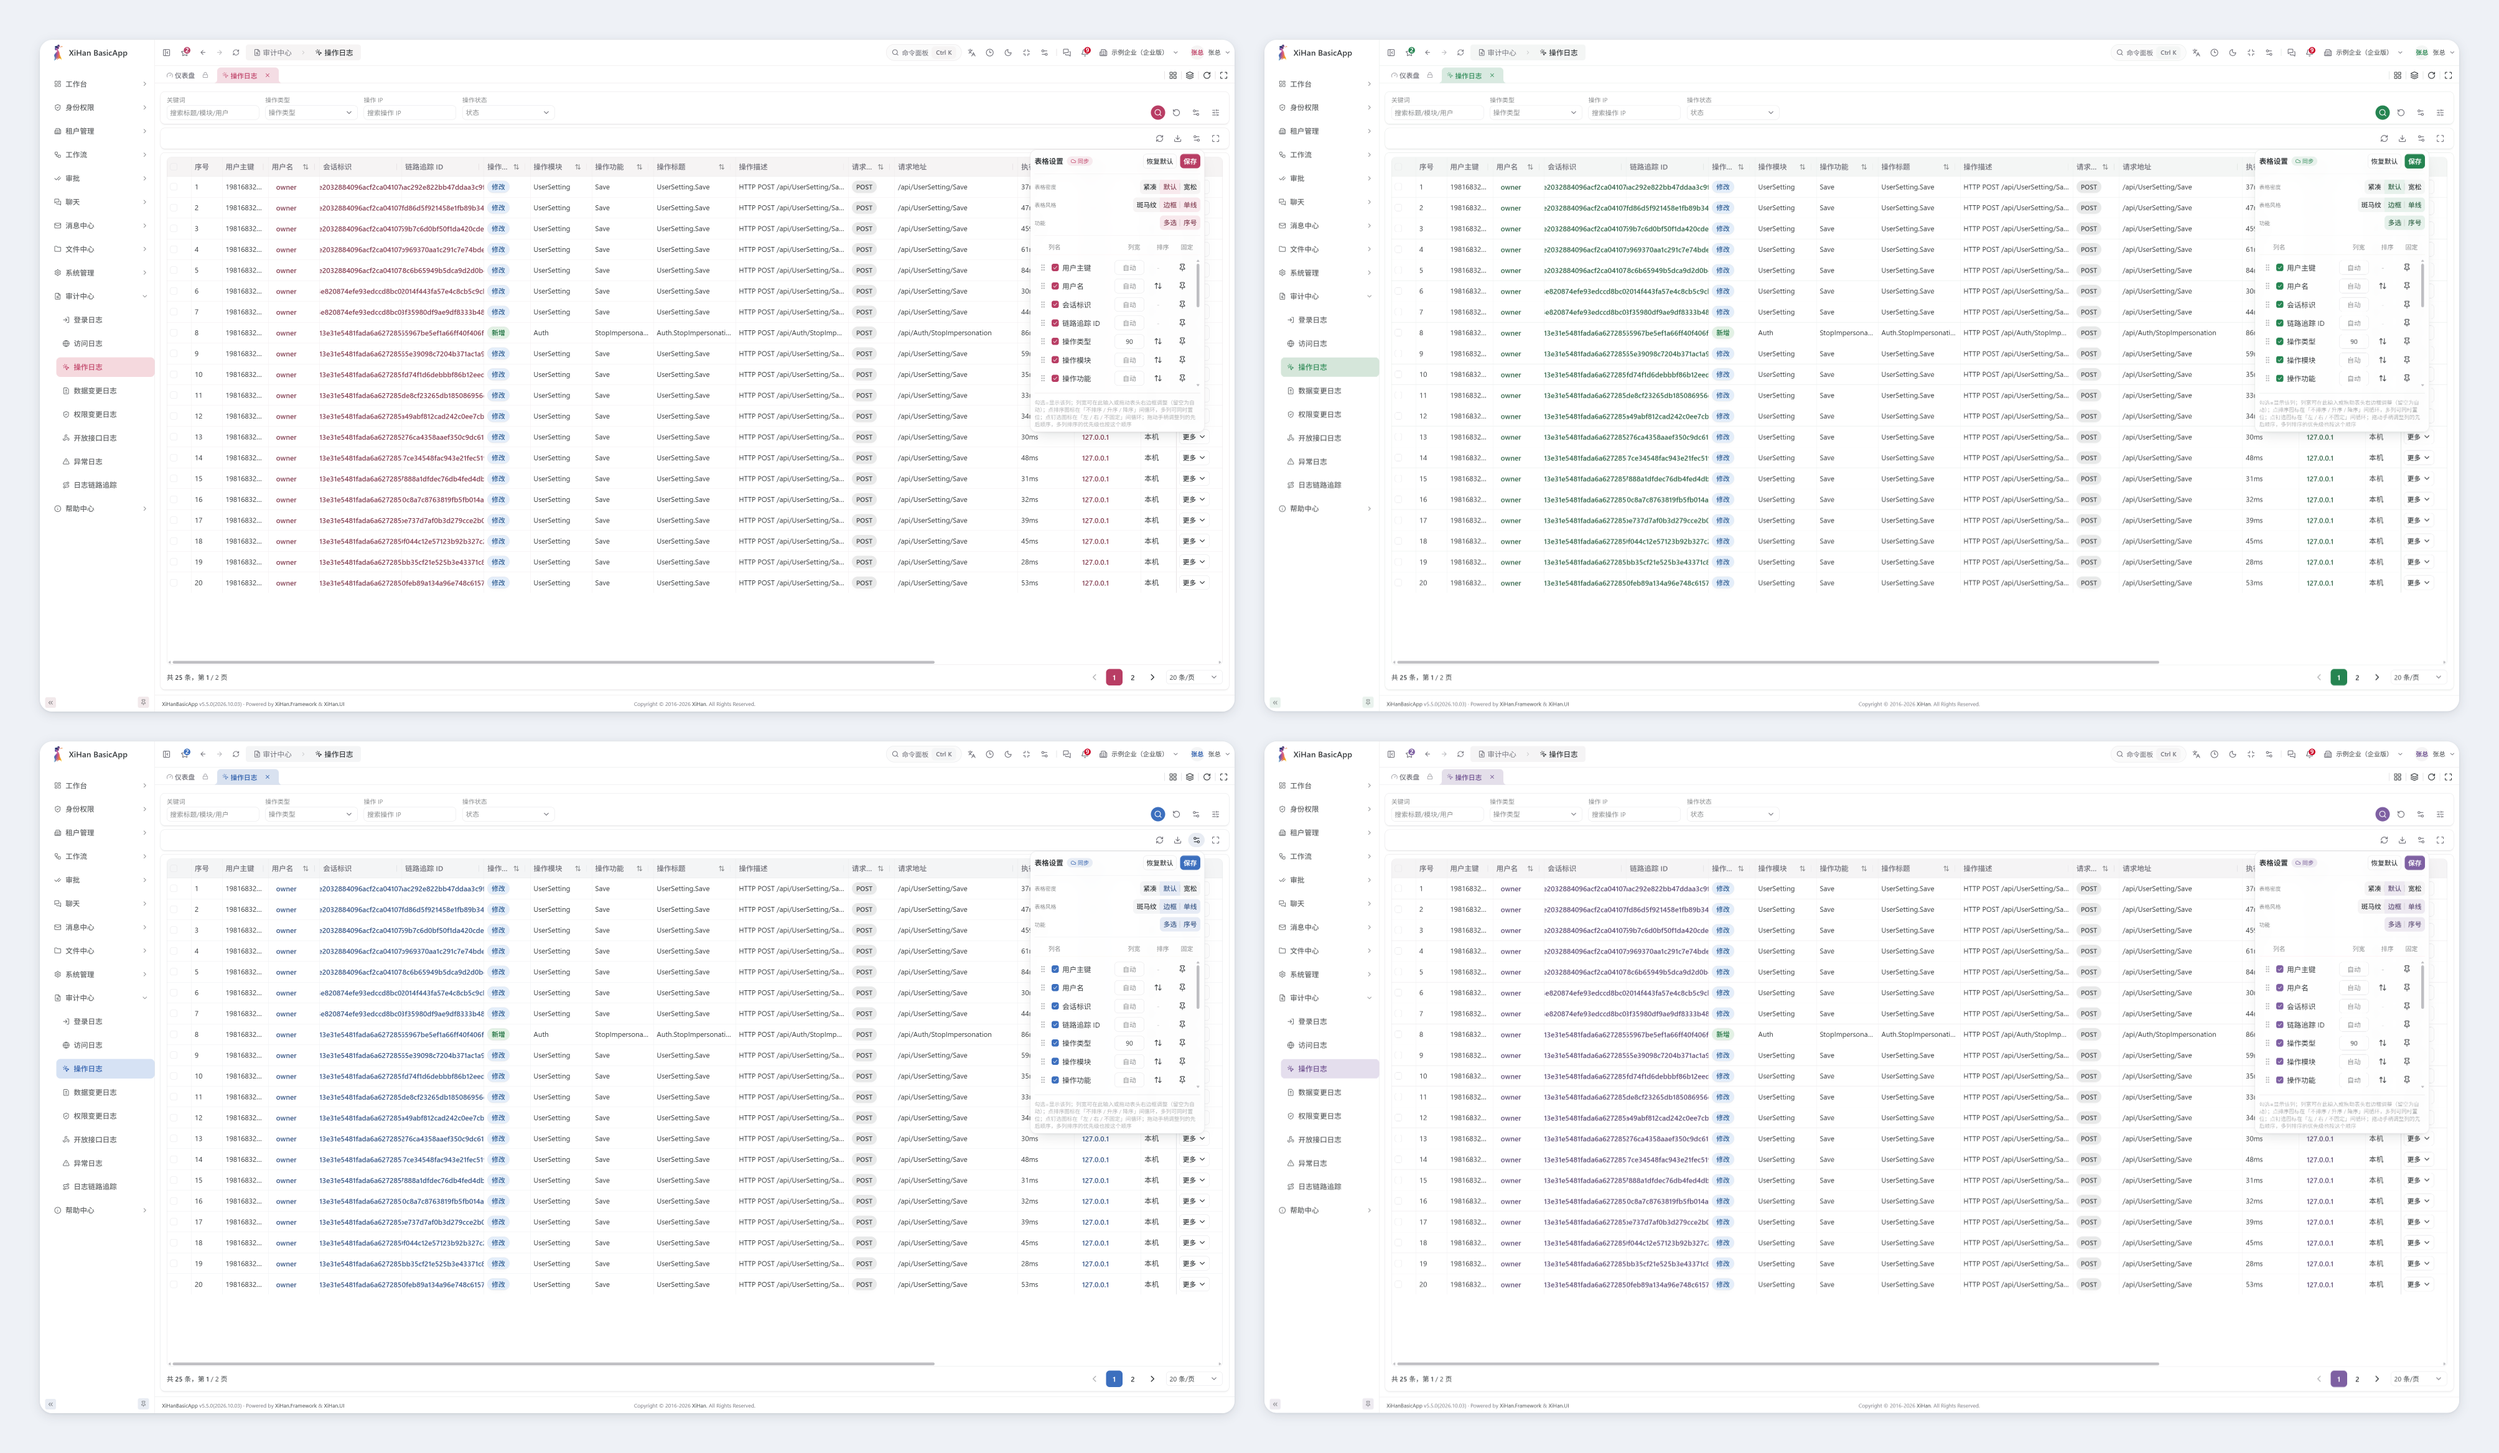
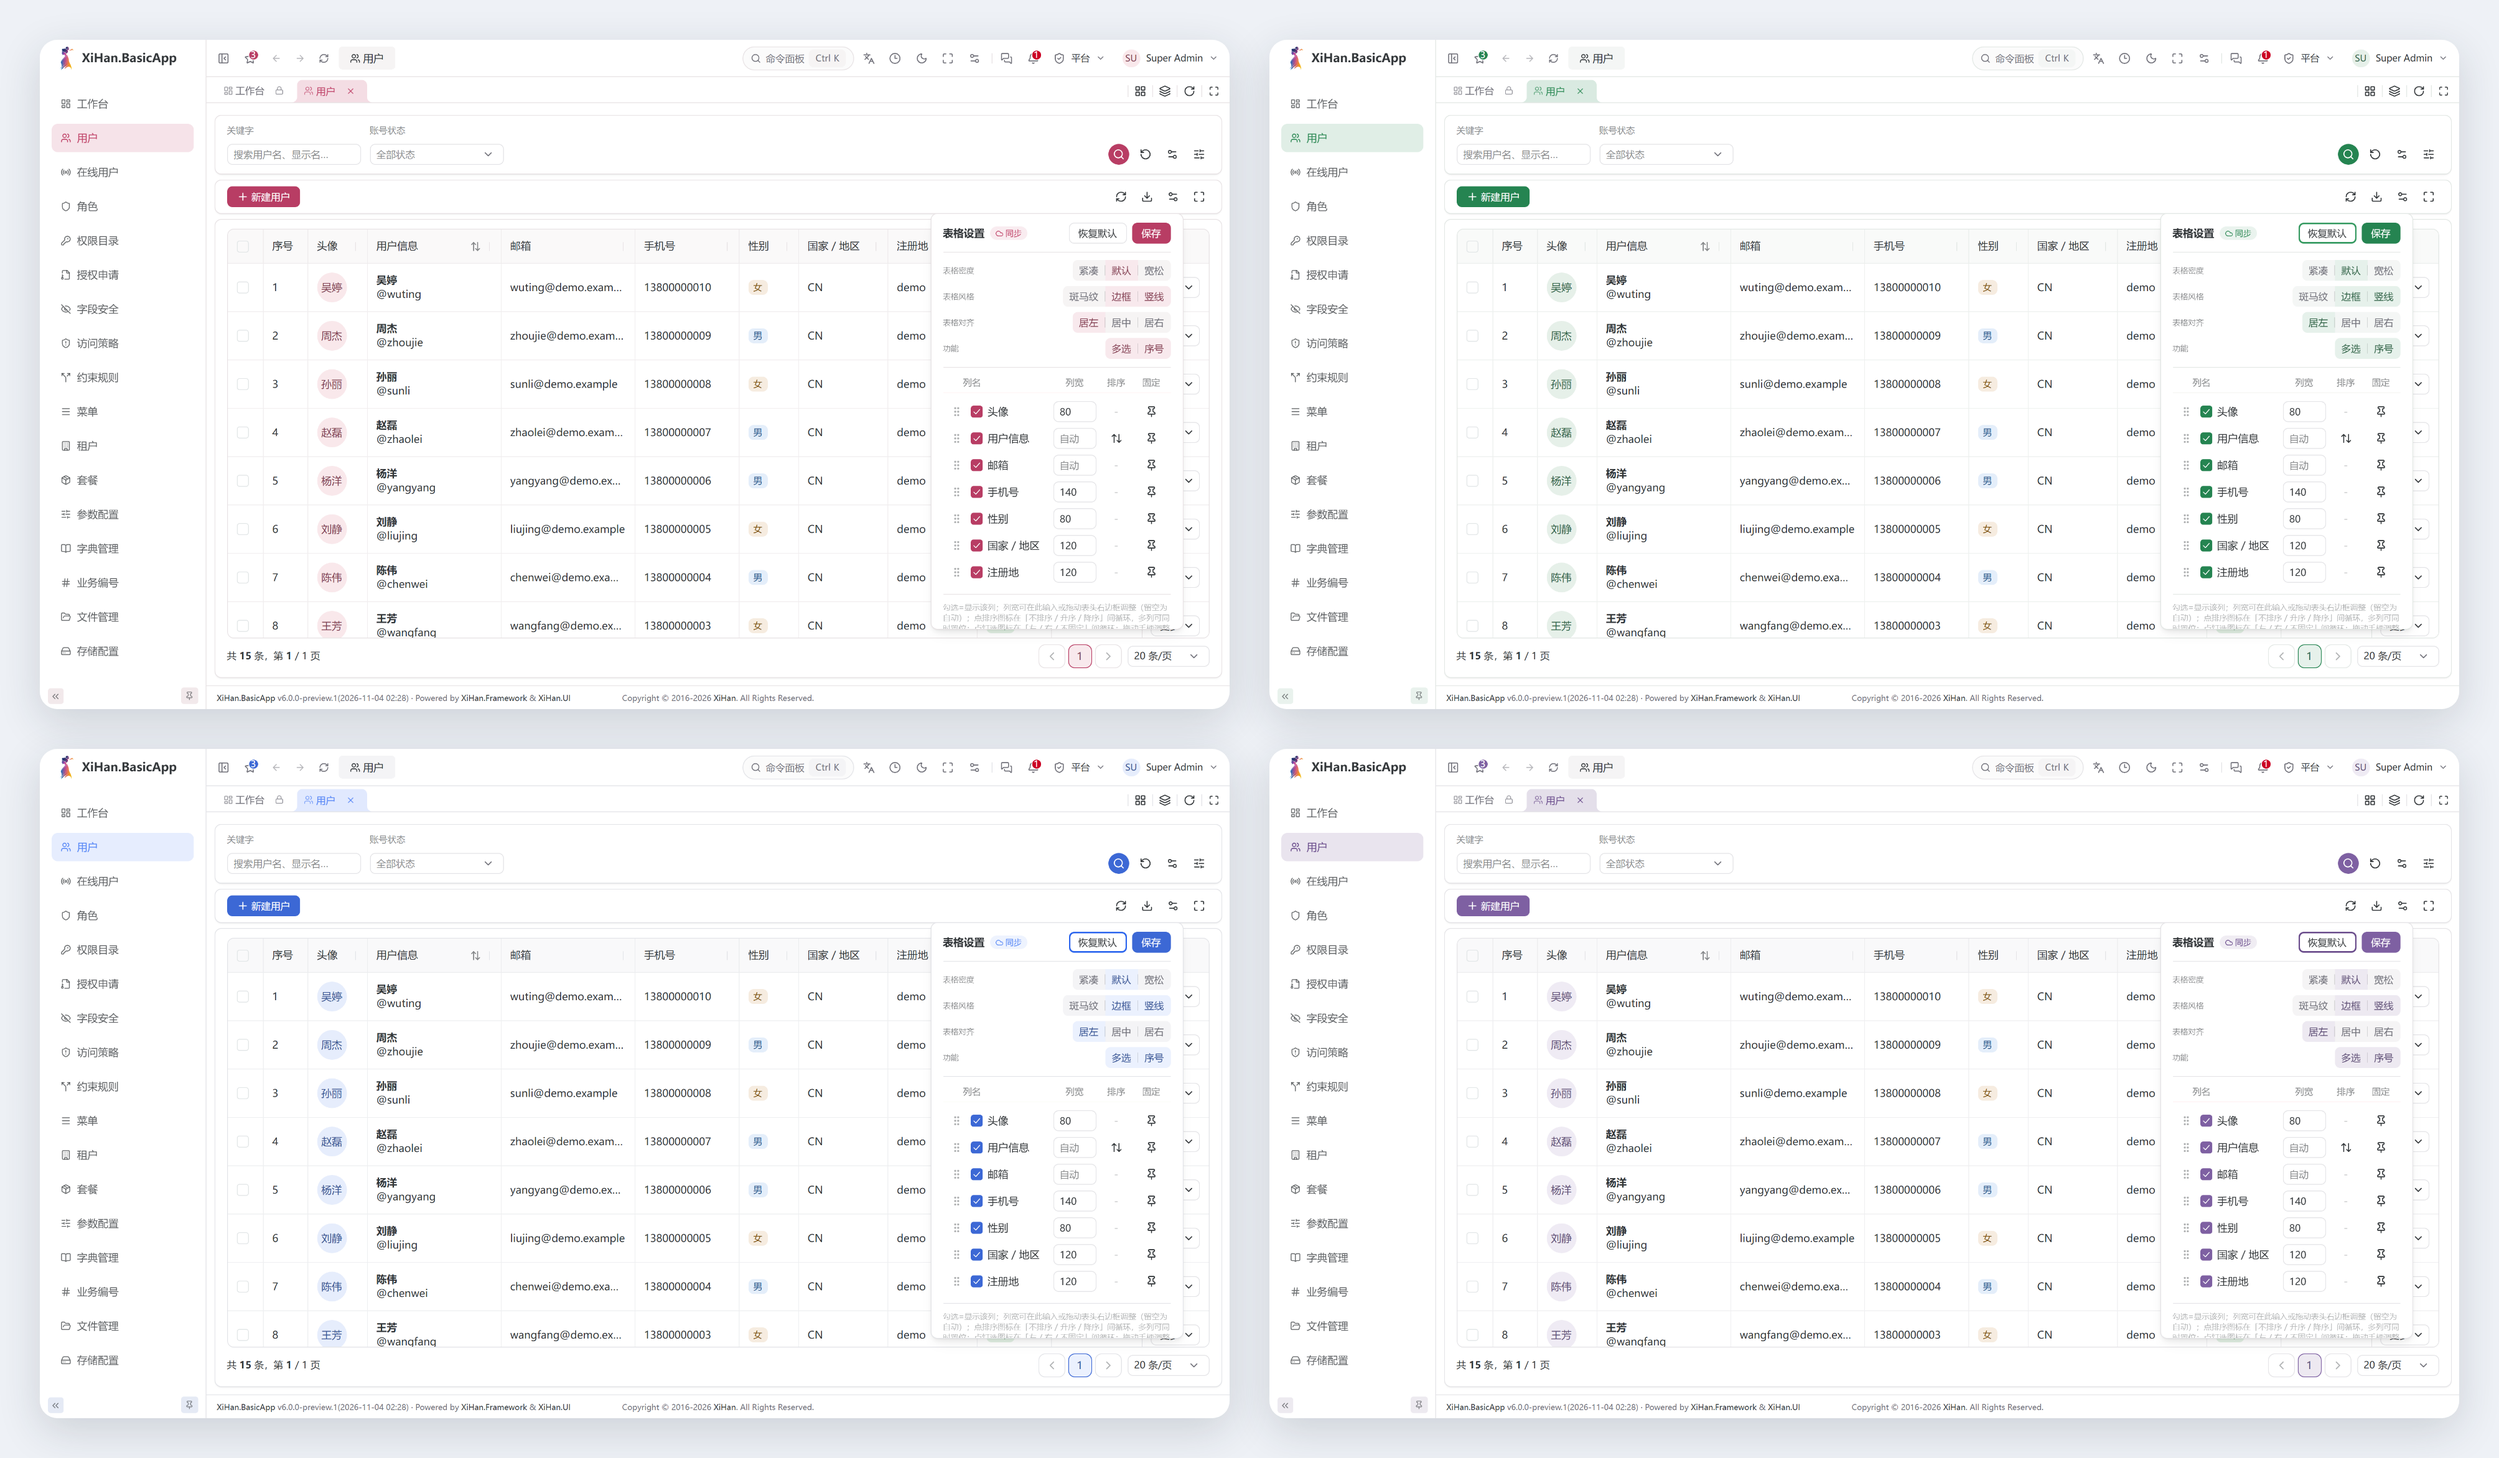
docs(next): 预览图换成 6.0 的界面

diff --git a/docs/preview.md b/docs/preview.md
@@ -1,6 +1,35 @@
 # 功能预览
 
-本页说明如何在本机查看 6.0 的各个页面，适用于希望直观了解 6.0 功能的读者。
+<script setup>
+const previewImages = import.meta.glob('../assets/preview/*.png', { eager: true, query: '?url', import: 'default' })
+</script>
+
+本页是 6.0 的界面截图，并说明如何在本机查看各个页面，适用于希望直观了解 6.0 功能的读者。逐项能力见[功能清单](./features)。
+
+<table class="feature-preview-table">
+  <tr>
+    <td align="center" width="50%"><a :href="previewImages['../assets/preview/theme-light-dark.png']" target="_blank" rel="noopener noreferrer"><img :src="previewImages['../assets/preview/theme-light-dark.png']" alt="亮 / 暗双主题" loading="lazy" /></a><br/><b>亮 / 暗双主题</b><br/>每个页面、每个组件逐一对过色</td>
+    <td align="center" width="50%"><a :href="previewImages['../assets/preview/theme-colors.png']" target="_blank" rel="noopener noreferrer"><img :src="previewImages['../assets/preview/theme-colors.png']" alt="一个色值生成整套配色" loading="lazy" /></a><br/><b>一个色值生成整套配色</b><br/>Material You 动态取色，21 个中国传统色预设</td>
+  </tr>
+  <tr>
+    <td align="center" colspan="2"><a :href="previewImages['../assets/preview/preference-center.png']" target="_blank" rel="noopener noreferrer"><img :src="previewImages['../assets/preview/preference-center.png']" alt="偏好中心" loading="lazy" /></a><br/><b>偏好中心</b><br/>布局、配色、密度、快捷键与云端同步一处调好，另一台设备实时生效</td>
+  </tr>
+  <tr>
+    <td align="center" width="50%"><a :href="previewImages['../assets/preview/schema-list.png']" target="_blank" rel="noopener noreferrer"><img :src="previewImages['../assets/preview/schema-list.png']" alt="Schema 驱动列表页" loading="lazy" /></a><br/><b>Schema 驱动列表页</b><br/>行悬停速览、高级搜索、列设置开箱即用</td>
+    <td align="center" width="50%"><a :href="previewImages['../assets/preview/command-palette.png']" target="_blank" rel="noopener noreferrer"><img :src="previewImages['../assets/preview/command-palette.png']" alt="命令面板式全局搜索" loading="lazy" /></a><br/><b>命令面板式全局搜索</b><br/><code>Ctrl / ⌘ + K</code> 呼出，拼音首字母直达页面与操作</td>
+  </tr>
+  <tr>
+    <td align="center" width="50%"><a :href="previewImages['../assets/preview/split-view.png']" target="_blank" rel="noopener noreferrer"><img :src="previewImages['../assets/preview/split-view.png']" alt="应用内分屏" loading="lazy" /></a><br/><b>应用内分屏</b><br/>两个页面左右并排，互换不重载</td>
+    <td align="center" width="50%"><a :href="previewImages['../assets/preview/control-center.png']" target="_blank" rel="noopener noreferrer"><img :src="previewImages['../assets/preview/control-center.png']" alt="多租户控制中心" loading="lazy" /></a><br/><b>多租户控制中心</b><br/>平台管理与各租户之间一处切换</td>
+  </tr>
+  <tr>
+    <td align="center" colspan="2"><a :href="previewImages['../assets/preview/mobile.png']" target="_blank" rel="noopener noreferrer"><img :src="previewImages['../assets/preview/mobile.png']" alt="小屏适配" loading="lazy" /></a><br/><b>小屏适配</b><br/>登录、工作台、抽屉菜单、命令面板与列表页，手机浏览器打开即可使用</td>
+  </tr>
+  <tr>
+    <td align="center" width="50%"><a :href="previewImages['../assets/preview/dashboard.png']" target="_blank" rel="noopener noreferrer"><img :src="previewImages['../assets/preview/dashboard.png']" alt="工作台" loading="lazy" /></a><br/><b>工作台</b><br/>小组件拖拽排布，看板布局云端保存</td>
+    <td align="center" width="50%"><a :href="previewImages['../assets/preview/log-trace.png']" target="_blank" rel="noopener noreferrer"><img :src="previewImages['../assets/preview/log-trace.png']" alt="一个 TraceId 看全链路" loading="lazy" /></a><br/><b>一个 TraceId 看全链路</b><br/>八类日志串成时间线，桑基图看流向</td>
+  </tr>
+</table>
 
 ::: info 在线演示
 线上演示环境 [basicapp.xihanfun.com](https://basicapp.xihanfun.com) 目前部署的是 5.x，6.0 可以按下面的步骤在本机运行查看。
@@ -38,3 +67,27 @@
 ## 相关
 
 - [功能清单](./features) · [快速开始](./getting-started) · [5.x 功能预览](https://basicapp.docs.xihanfun.com/v5/preview)
+
+<style scoped>
+.feature-preview-table {
+  display: table;
+  table-layout: fixed;
+  width: 100%;
+}
+
+.feature-preview-table td {
+  width: 50%;
+  vertical-align: top;
+  text-align: center;
+}
+
+.feature-preview-table td[colspan] {
+  width: 100%;
+}
+
+.feature-preview-table img {
+  display: block;
+  width: 100%;
+  height: auto;
+}
+</style>
